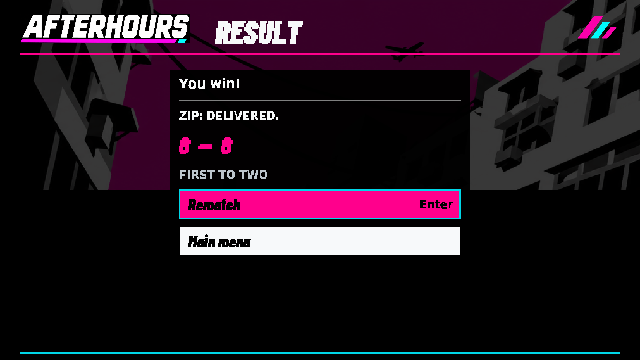
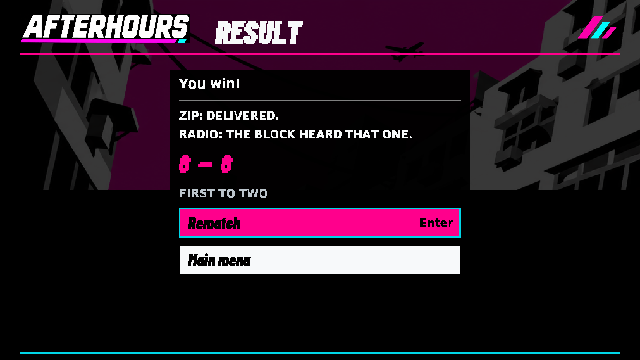
Add street-radio result line (E2); document reverted E1 music EQ attempt
Claude-Session: https://claude.ai/code/session_018tqqU9PCBahcpkJ9FofcXB

Changed region(s): [[0.2812, 0.3361, 0.7188, 0.7639]]

diff --git a/docs/BANTER.zh-TW.md b/docs/BANTER.zh-TW.md
@@ -7,6 +7,7 @@
 - **鏡像戰（G3）**：雙方同角色時改用鏡像台詞（3 句）。
 - **同對手連勝（G4）**：對同一位對手連勝達 5 場，開場台詞換成「第五次了」類台詞（2 句）。
 - **結算頁**：整個對戰（match）結束且玩家或對手勝出時，顯示勝者一句勝利台詞（各角色 2 句）。
+- **街區電台（E2 精簡版）**：結算頁在勝利台詞下多一行「電台」反應句（勝／敗各 3 句），純文字，不加語音或音訊。
 - 練習（TRAINING）、AI DEMO、Street Run、教學：不顯示、不記錄。
 
 ## 實作
@@ -15,9 +16,12 @@
 - 連勝語意：只算「標準對戰、對同一對手角色」的連續勝；換對手重算為 1，輸一場歸零。
 
 ## 驗證
-`godot/tools/verify_banter.gd` 107/107（Godot 4.6.3 headless）：台詞表長度／格式、鏡像／連勝選池、Store 持久化與夾限、練習不顯示不記錄、實際 session 開場與結算整合。畫面：[開場](evidence/banter/start_taunt.png)、[結算](evidence/banter/result_line.png)（結算圖比分 0–0 是測試直接設定 match_over 的結果）。
+`godot/tools/verify_banter.gd` 119/119（Godot 4.6.3 headless）：台詞表長度／格式、鏡像／連勝選池、Store 持久化與夾限、練習不顯示不記錄、實際 session 開場與結算整合。畫面：[開場](evidence/banter/start_taunt.png)、[結算](evidence/banter/result_line.png)（結算圖比分 0–0 是測試直接設定 match_over 的結果）。
 
 未驗證：Mac／真人觀感；台詞語氣與長度需 Alan 看過再調（內容皆為暫定原創）；繁中版本目前選單不啟用所以畫面未實測；連勝計數在 Alan 本機存檔，不防改檔。
 
 ## 尚未做的 G
 G1 塗鴉收集、G2 站名牌、G5 製作筆記牆、G6 秘技造型、G8 玩家風格稱號（G1／G2 需美術）。
+
+## E1 音樂層：嘗試後撤回（紀錄）
+曾嘗試在音樂 bus 加 `AudioEffectEQ6`，隨 SURGE 階段加低頻／高頻。既有 `verify_unified_audio.gd` 的混音量測顯示：即使 EQ 全 0 dB，音樂段峰值由約 0.126 升到 0.160、RMS 約 +1.7 dB（基線連跑兩次為 0.1264／0.1270，穩定）。這會改變所有戰鬥的基礎響度，且無法在雲端用耳朵確認，因此**整個撤回，未入庫**。要做 E1，建議由 Alan 提供分層音軌（stems），以 crossfade 疊層實現，而不是 bus EQ。另外 `verify_music_audio.gd` 在未改動基線已有失敗斷言（title→fight 同 player 等），非本次造成。

diff --git a/docs/TODO.md b/docs/TODO.md
@@ -4,6 +4,7 @@
 
 - [x] G3 鏡像台詞、G4 連勝記憶、G7 主題台詞（107 項檢查）。
 - [ ] Alan 審台詞語氣；G1／G2／G5／G6／G8 未做。
+- [x] E2 街區電台（結算頁，精簡版）；E1 音樂層嘗試後撤回（見 BANTER 文件），待 Alan 提供 stems。
 - [ ] 下一步 E 音樂演出，再 F 社交內容（不重做輸入抽象）。
 
 ## 2026-11-11：D／E／F／G 實作
